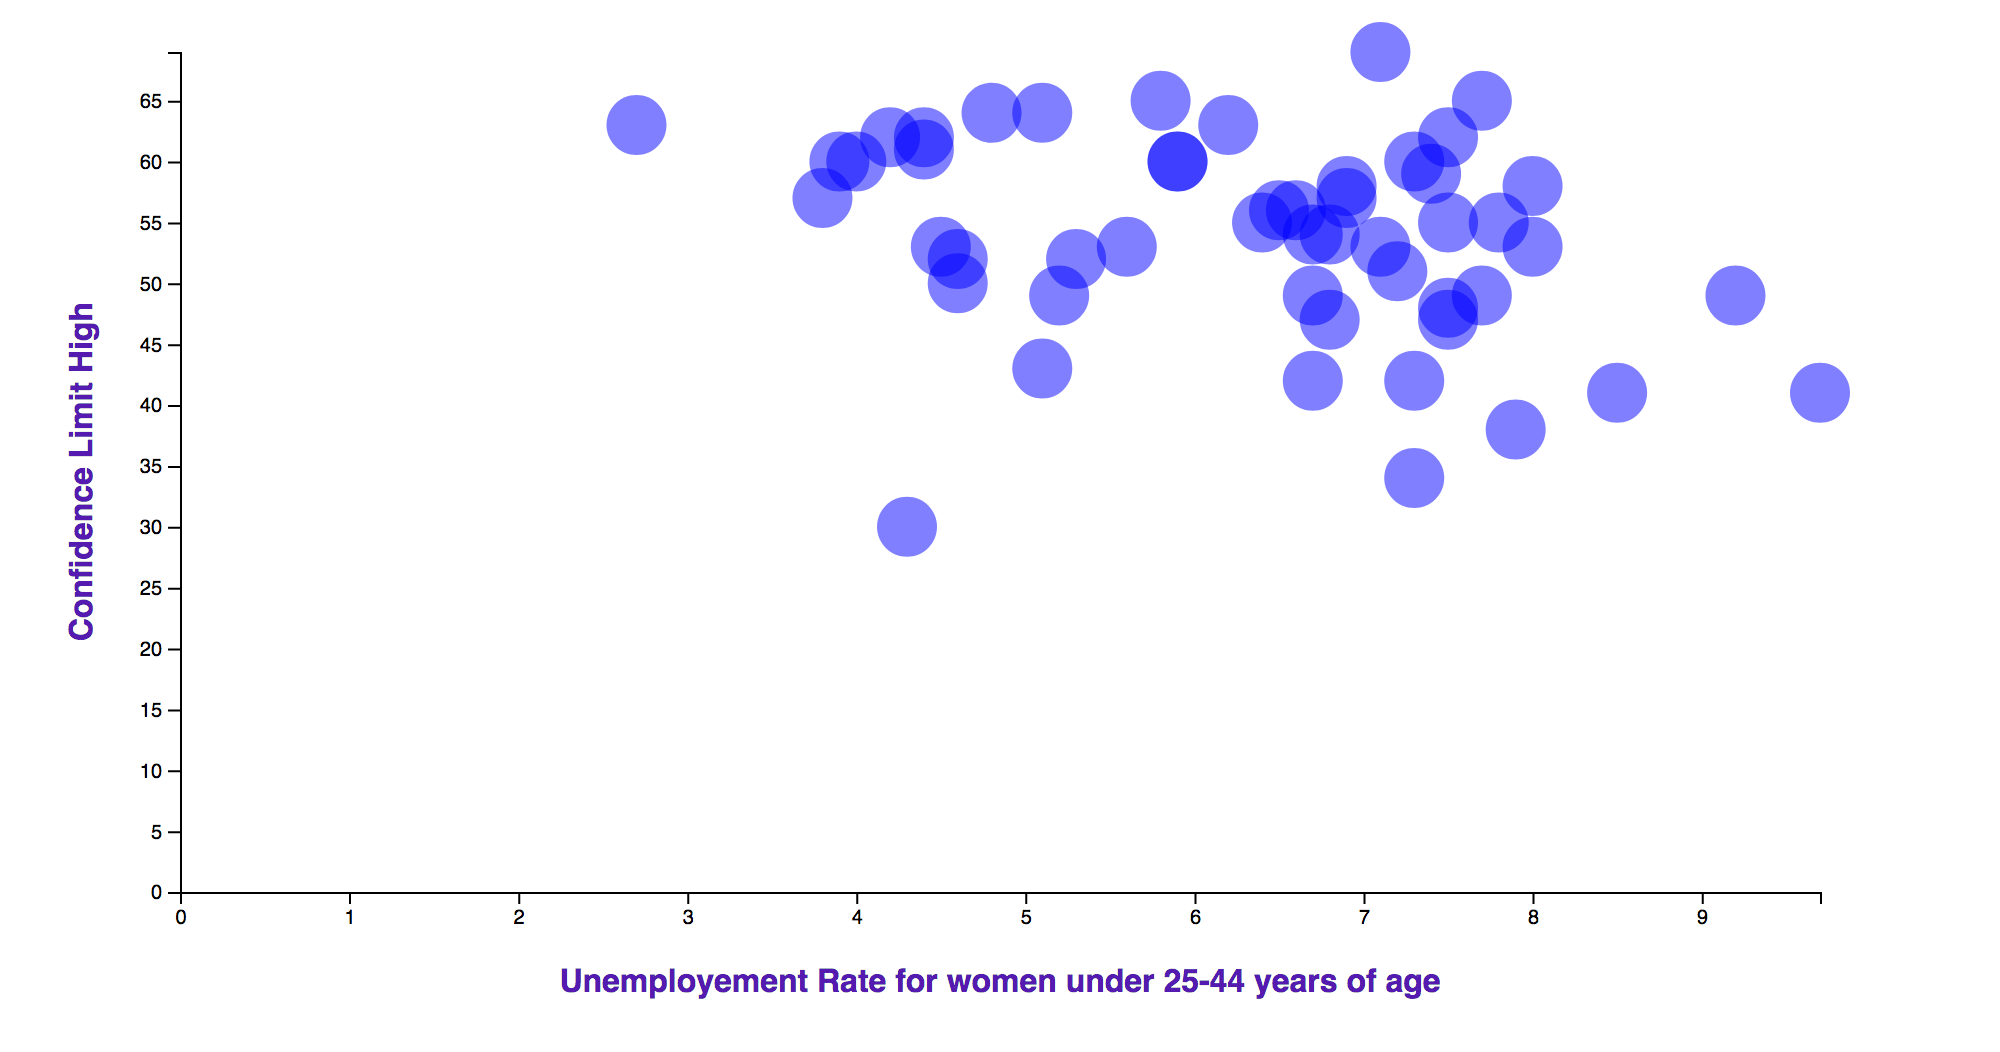
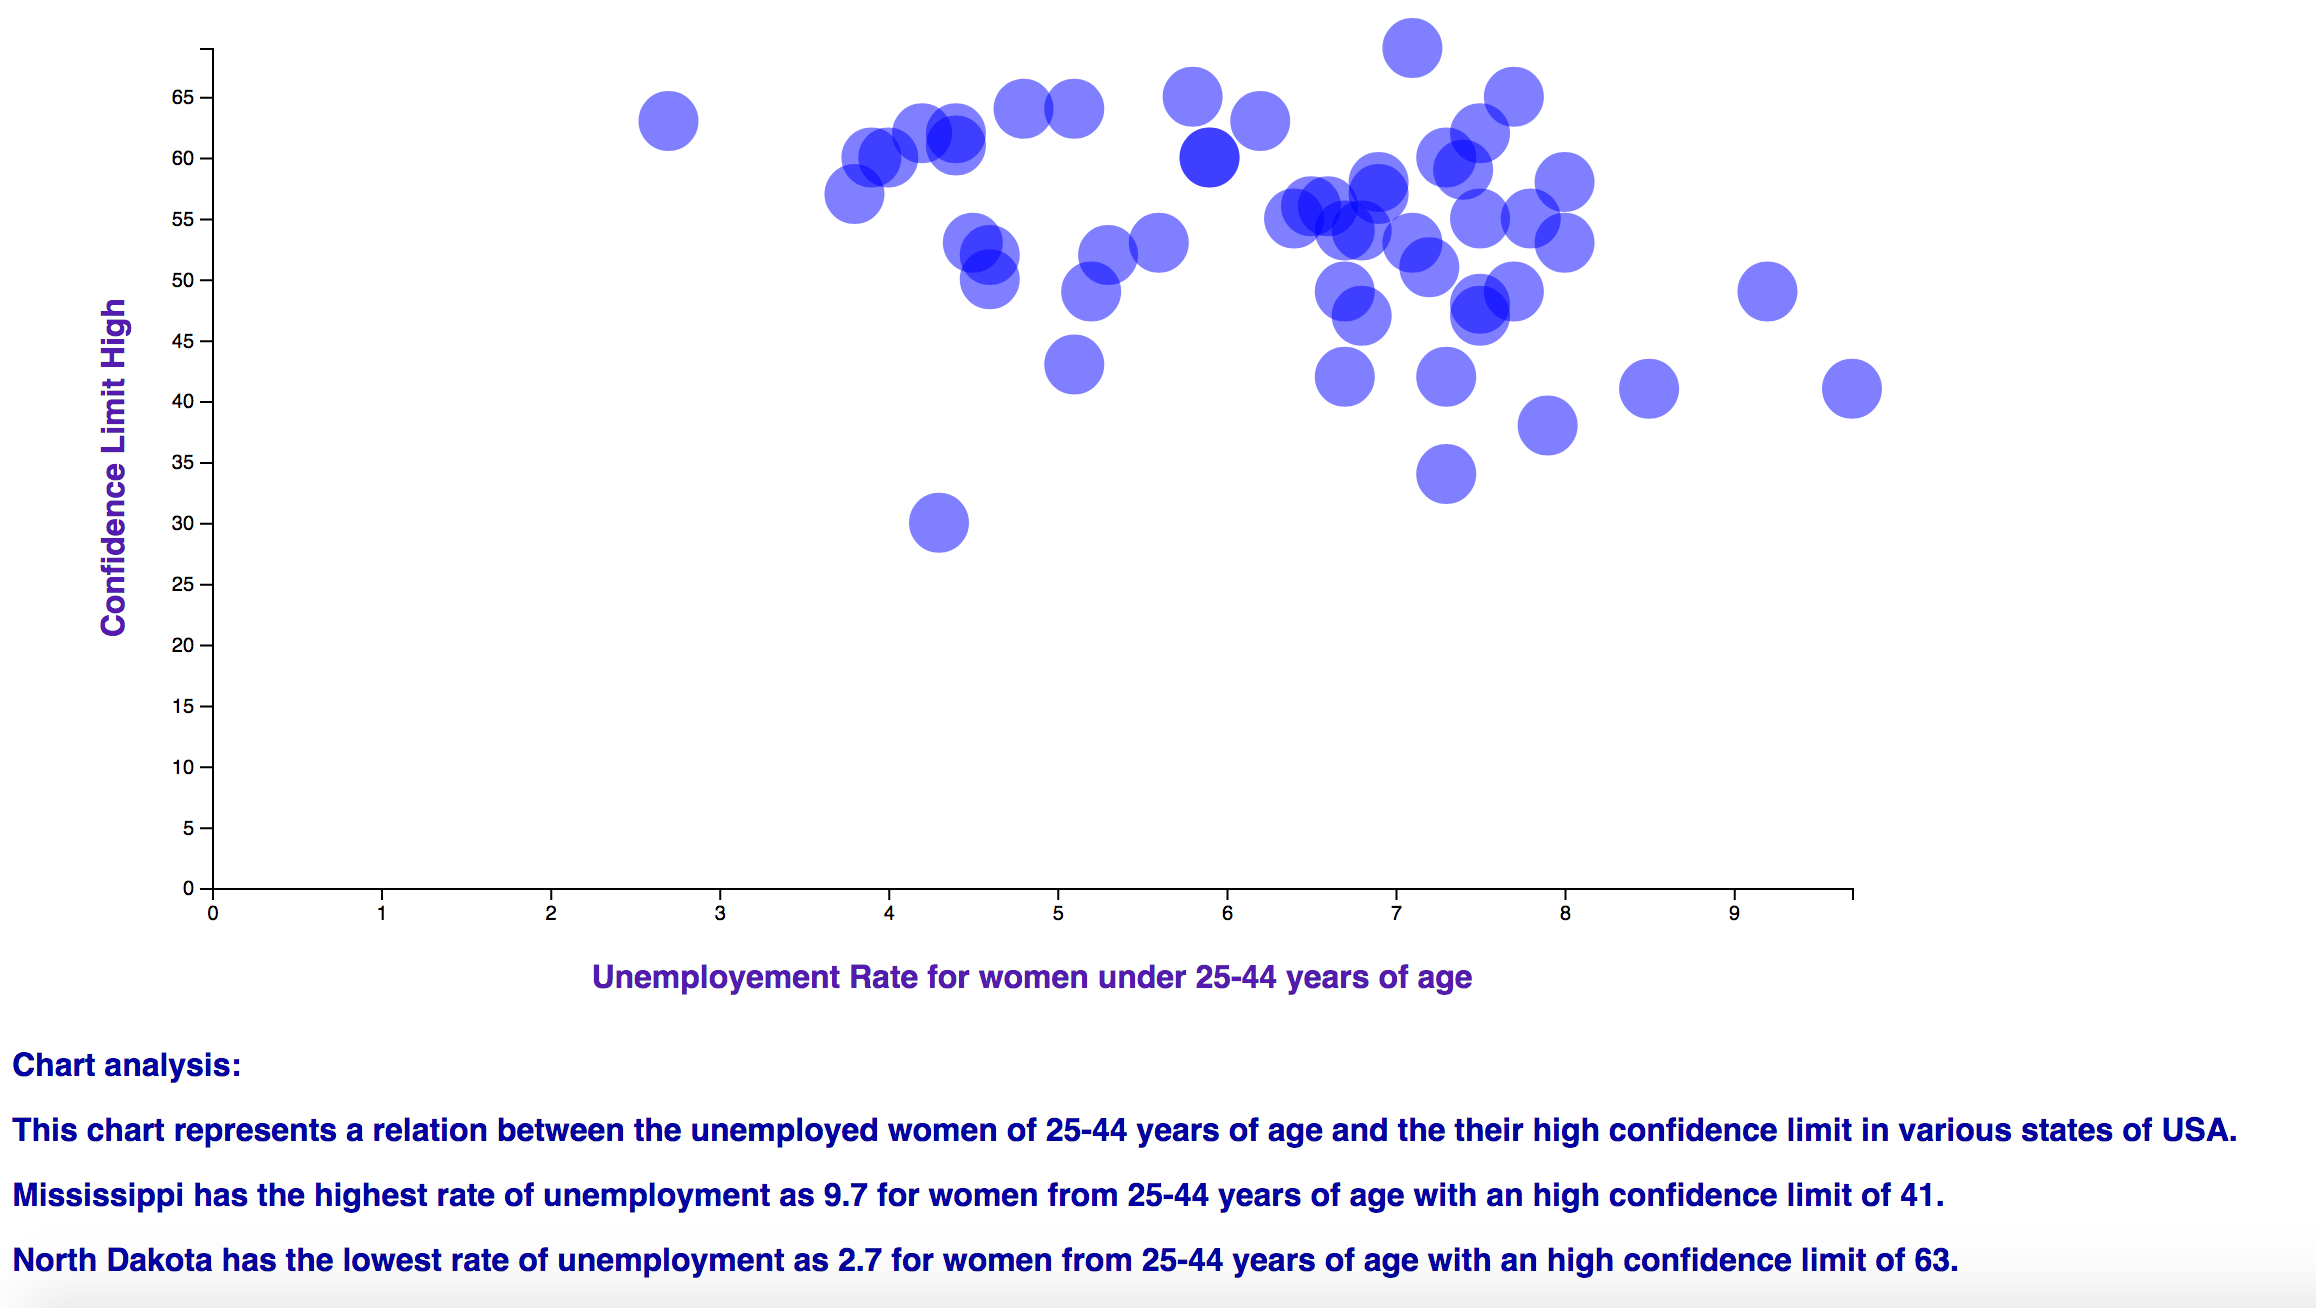
Chart analysis

diff --git a/Data_Journalism_D3/app.js b/Data_Journalism_D3/app.js
@@ -1,5 +1,5 @@
 
-// Set up our chart
+// Step 1: Set up our chart
 //= ================================
 var svgWidth = 960;
 var svgHeight = 500;
@@ -14,7 +14,8 @@ var margin = {
 var width = svgWidth - margin.left - margin.right;
 var height = svgHeight - margin.top - margin.bottom;
 
-// Create an SVG wrapper, append an SVG group that will hold our chart, and shift the latter by left and top margins.
+// Step 2: Create an SVG wrapper, append an SVG group that will hold our chart, and shift the latter by left and top margins.
+//= =================================================================================================================
 var svg = d3.select(".chart")
   .append("svg")
   .attr("width", svgWidth)
@@ -23,18 +24,18 @@ var svg = d3.select(".chart")
 var chartGroup = svg.append("g")
   .attr("transform", `translate(${margin.left}, ${margin.top})`);
 
-// Import Data
+// Step 3: Import Data
 d3.csv("./data/data.csv", function (err, unemploymentData) {
   if (err) throw err;
 
-  // Step 1: Parse Data/Cast as numbers
+  // Step 4: Parse Data/Cast as numbers
    // ==============================
    unemploymentData.forEach(function (data) {
     data.UnemploymentRate = +data.UnemploymentRate;
     data.ConfidenceLimitHigh = parseInt(data.ConfidenceLimitHigh);
   });
 
-  // Step 2: Create scale functions
+  // Step 5: Create scale functions
   // ==============================
   var xLinearScale = d3.scaleLinear()
     .domain([0, d3.max(unemploymentData, d => d.UnemploymentRate)])
@@ -44,12 +45,12 @@ d3.csv("./data/data.csv", function (err, unemploymentData) {
     .domain([0, d3.max(unemploymentData, d => d.ConfidenceLimitHigh)])
     .range([height, 0]);
 
-  // Step 3: Create axis functions
+  // Step 6: Create axis functions
   // ==============================
   var bottomAxis = d3.axisBottom(xLinearScale);
   var leftAxis = d3.axisLeft(yLinearScale);
 
-  // Step 4: Append Axes to the chart
+  // Step 7: Append Axes to the chart
   // ==============================
   chartGroup.append("g")
     .attr("transform", `translate(0, ${height})`)
@@ -58,7 +59,7 @@ d3.csv("./data/data.csv", function (err, unemploymentData) {
   chartGroup.append("g")
     .call(leftAxis);
 
-   // Step 5: Create Circles
+   // Step 8: Create Circles
   // ==============================
   var circlesGroup = chartGroup.selectAll("circle")
   .data(unemploymentData)
@@ -69,22 +70,36 @@ d3.csv("./data/data.csv", function (err, unemploymentData) {
   .attr("r", "15")
   .attr("fill", "blue")
   .attr("opacity", ".5")
+
+  // add the text on top of the circles
+  //= ==================================
+  var textGroup = chartGroup.selectAll("#circleText")
+  .data(unemploymentData)
+  .enter()
+  .append("text")
+  .text(d => d.stateAbbr)
+  .attr("id", "circleText")
+  .attr("x", d => xLinearScale(d.UnemploymentRate)-5)
+  .attr("y", d => yLinearScale(d.ConfidenceLimitHigh)+4)
+  .attr("stroke-width", "1")
+  .attr("fill", "black")
+  .attr("font-size", 8);
   
 
-  // Step 6: Initialize tool tip
+  // Step 9: Initialize tool tip
   // ==============================
   var toolTip = d3.tip()
     .attr("class", "tooltip")
     .offset([90, -60])
     .html(d =>
-      `${d.state}<br>Unemployment Rate: ${d.UnemploymentRate}<br>High Confidence Level(Female): ${d.ConfidenceLimitHigh}`
+      `${d.state}<br>Unemployment Rate: ${d.UnemploymentRate}<br>Confidence Limit: ${d.ConfidenceLimitHigh}`
     );
 
-  // Step 7: Create tooltip in the chart
+  // Step 10: Create tooltip in the chart
   // ==============================
   chartGroup.call(toolTip);
 
-  // Step 8: Create event listeners to display and hide the tooltip
+  // Step 11: Create event listeners to display and hide the tooltip
   // ==============================
   circlesGroup.on("mouseover", function (data) {
       toolTip.show(data);
@@ -94,7 +109,7 @@ d3.csv("./data/data.csv", function (err, unemploymentData) {
       toolTip.hide(data);
     });
 
-  // Create axes labels
+  // Step 12: Create axes labels
   chartGroup.append("text")
     .attr("transform", "rotate(-90)")
     .attr("y", 0 - margin.left + 40)
@@ -109,5 +124,8 @@ d3.csv("./data/data.csv", function (err, unemploymentData) {
     .text("Unemployement Rate for women under 25-44 years of age");
 });
 
-
+// Step 13: Add the Chart Analysis description for the chart
+var chartAnalysis = d3.select("#chartAnalysis")
+    .append("text")
+    .text(``);
 

diff --git a/Data_Journalism_D3/index.html b/Data_Journalism_D3/index.html
@@ -11,5 +11,11 @@
 		<div class="chart">
 		</div>
 		<script type="text/javascript" src="app.js"></script>
-  </body>
+		<div class="chartAnalysis">
+		<p>Chart analysis:
+		<p>This chart represents a relation between the unemployed women of 25-44 years of age and the their high confidence limit in various states of USA.</p>
+		<p>	Mississippi has the highest rate of unemployment as 9.7 for women from 25-44 years of age with an high confidence limit of 41.</p>
+		<p>	North Dakota has the lowest rate of unemployment as 2.7 for women from 25-44 years of age with an high confidence limit of 63.</p>
+		</div>
+		</body>
 </html>

diff --git a/Data_Journalism_D3/style.css b/Data_Journalism_D3/style.css
@@ -18,3 +18,10 @@
   fill: #551aaf;
   text-anchor: middle;
 }
+
+.chartAnalysis {
+font-family: sans-serif;
+  font-weight: bold;
+  color: rgb(3, 3, 163);
+  text-anchor: middle;
+}
